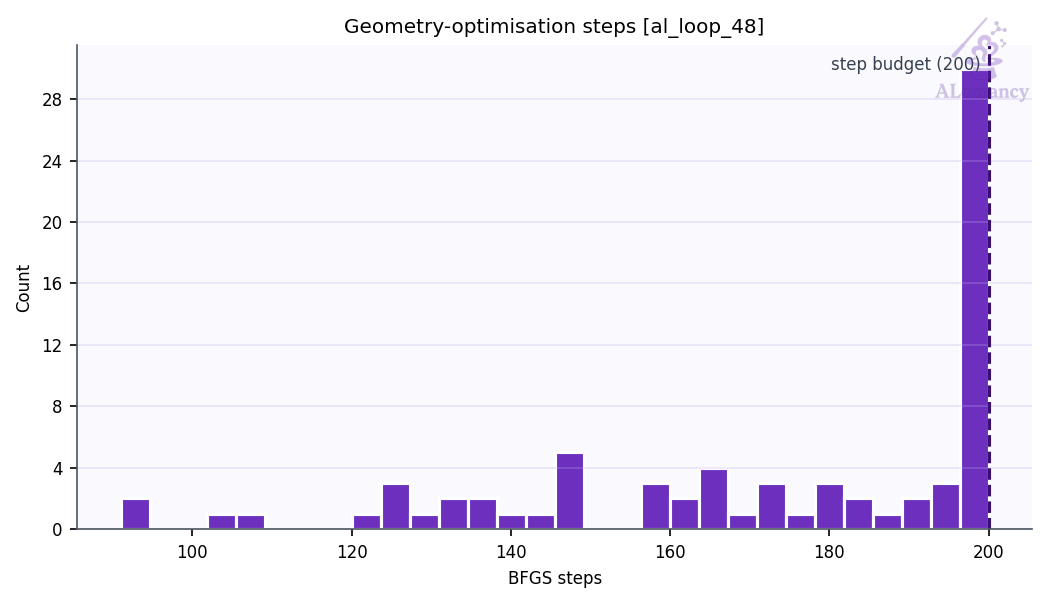
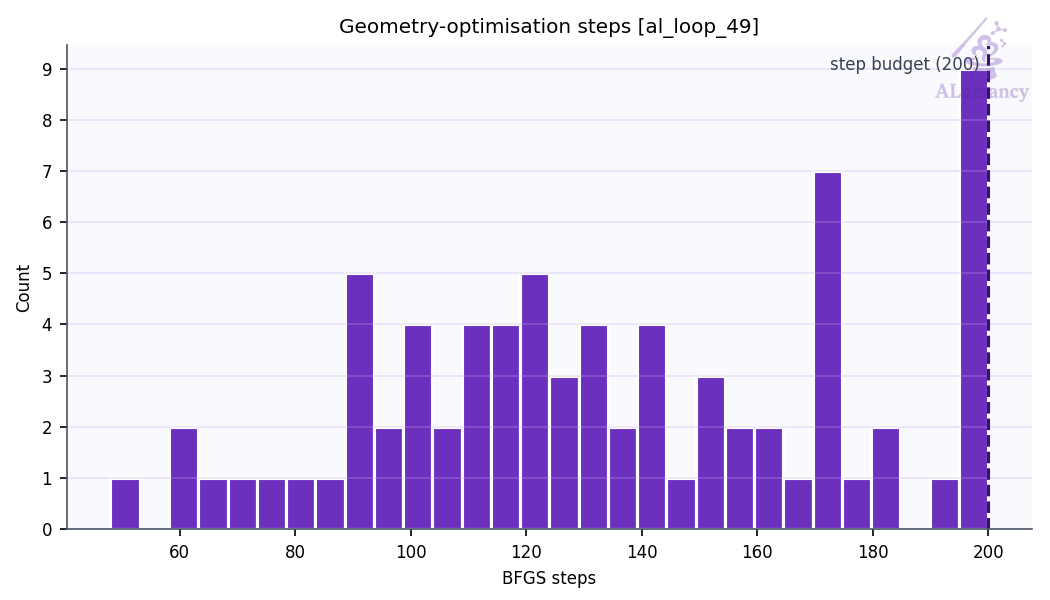
update good_c, yun_an

diff --git a/alomancy/yun_an/report/report.md b/alomancy/yun_an/report/report.md
@@ -1,30 +1,28 @@
-# ALomancy report: al_loop_48
+# ALomancy report: al_loop_49
 
-Workflow `committee_uncertainty` · trainer `mace` · generator `md` · evaluator `qe` · generated 2026-11-04T02:29:22
+Workflow `committee_uncertainty` · trainer `mace` · generator `md` · evaluator `qe` · generated 2026-11-06T10:08:30
 
-**Status:** ✖ 2 errors · ⚠ 2 warnings · 💡 2 infos · 39 warning(s) logged
+**Status:** ✖ 2 errors · ⚠ 2 warnings · 31 warning(s) logged
 
 ## Headline
 
-| | loop 47 | loop 48 | change |
+| | loop 48 | loop 49 | change |
 |---|---:|---:|---:|
-| Best model test force MAE (eV/Å) | 0.373 | 0.418 | +12% |
-| Best model test energy MAE (meV/atom) | 164 | 160 | -3% |
-| Training structures | 2.08e+03 | 2.15e+03 | +3% |
-| Test structures | 112 | 120 | +7% |
-| New structures this loop | 30 | 75 | +150% |
-| Warnings / errors logged | 27 | 39 | +44% |
+| Best model test force MAE (eV/Å) | 0.418 | 0.247 | -41% |
+| Best model test energy MAE (meV/atom) | 160 | 139 | -13% |
+| Training structures | 2.15e+03 | 2.23e+03 | +4% |
+| Test structures | 120 | 130 | +8% |
+| New structures this loop | 75 | 76 | +1% |
+| Warnings / errors logged | 39 | 31 | -21% |
 
 Best model: fit_3 of 5 (chosen on the `valid` split).
 
 ## Issues & suggestions
 
-- ✖ **remote_jobs_failed**: 36/131 remote jobs (27%) failed (17) or died (19). Check the job logs (results/alomancy.log has each failure's traceback); jobs killed by the scheduler usually need a longer max_time for that phase, or a partition with more memory.
-- ✖ **dft_partial_failure**: 25/100 structures sent to DFT (25%) came back without a result. Check the DFT output in results/<loop>/high_accuracy_evaluation; raise high_accuracy_evaluation.max_time / max_go_time if jobs timed out.
-- ⚠ **go_not_converged**: 29/75 geometry optimisations (39%) stopped at the step budget (200 steps) before reaching the force ceiling. Raise high_accuracy_evaluation.max_num_of_relax_steps, or raise high_accuracy_evaluation.force_ceiling (now 0.05 eV/Å) so they stop earlier. Non-converged structures are still kept as training data.
-- ⚠ **short_bond_excluded**: 1706/2552 structures (67%) were dropped for a bond shorter than 0.5 Å. The model is driving MD into collisions: lower md_kwargs.temperature or md_kwargs.timestep_fs, or add more short-range initialization data (dimers/trimers).
-- 💡 **go_steps_near_budget**: Geometry optimisations used 173 of 200 allowed steps on average (87%). Consider raising high_accuracy_evaluation.max_num_of_relax_steps before they start hitting the limit.
-- 💡 **overfitting**: The best model's test force MAE (0.418 eV/Å) is 2.3x its training MAE (0.179 eV/Å). The test set covers configurations training doesn't: keep adding data, or raise general.dataset_kwargs.valid_fraction to select models on held-out data.
+- ✖ **remote_jobs_failed**: 26/136 remote jobs (19%) failed (21) or died (5). Check the job logs (results/alomancy.log has each failure's traceback); jobs killed by the scheduler usually need a longer max_time for that phase, or a partition with more memory.
+- ✖ **dft_partial_failure**: 24/100 structures sent to DFT (24%) came back without a result. Check the DFT output in results/<loop>/high_accuracy_evaluation; raise high_accuracy_evaluation.max_time / max_go_time if jobs timed out.
+- ⚠ **short_bond_excluded**: 4045/5107 structures (79%) were dropped for a bond shorter than 0.5 Å. The model is driving MD into collisions: lower md_kwargs.temperature or md_kwargs.timestep_fs, or add more short-range initialization data (dimers/trimers).
+- ⚠ **few_candidates_generated**: Structure generation produced only 137 usable candidates, less than twice the 100 structures added per loop, so the selector had little to choose from. Raise structure_generation.num_of_structures_to_generate (and md_kwargs.steps or structure_selection_kwargs.num_of_md_starts if MD runs end early).
 
 ## Trends
 
@@ -43,6 +41,7 @@ Best model: fit_3 of 5 (chosen on the `valid` split).
 | 46 | 0.353 | 2055 | 54 | 54/100 | 39% | 0 | 50 |
 | 47 | 0.373 | 2085 | 30 | 30/45 | 73% | 0 | 27 |
 | 48 | 0.418 | 2152 | 75 | 75/100 | 61% | 0 | 39 |
+| 49 | 0.247 | 2232 | 76 | 76/100 | 92% | 0 | 31 |
 
 ![Best-model MAE per loop](plots/training_al_loop_mae_plot.png)
 
@@ -52,7 +51,7 @@ Best model: fit_3 of 5 (chosen on the `valid` split).
 
 ![Best model parity](plots/best_model_parity.png)
 
-Median relative error: train energy 3.2%, force 22.1%; test energy 2.3%, force 183.4%.
+Median relative error: train energy 3.6%, force 18.7%; test energy 2.3%, force 148.1%.
 Energies with |formation energy| < 0.05 eV/atom and atoms with |F| < 0.1 eV/Å are left out; force error is |ΔF|/|F| per atom.
 
 ![Best model percentage error](plots/best_model_percent_error.png)
@@ -62,17 +61,17 @@ Energies with |formation energy| < 0.05 eV/atom and atoms with |F| < 0.1 eV/Å a
 | config_type | Train | Test | Excluded: redundant | Excluded: quality filter | total |
 |---|---:|---:|---:|---:|---:|
 | IsolatedAtom | 5 | 0 | 0 | 0 | 5 |
-| high_sd | 751 | 104 | 28 | 529 | 1412 |
+| high_sd | 831 | 114 | 28 | 591 | 1564 |
 | init_MP | 69 | 4 | 0 | 0 | 73 |
 | init_amorphous | 67 | 12 | 8 | 0 | 87 |
 | init_dimer | 299 | 0 | 0 | 0 | 299 |
 | init_stretch_compress | 390 | 0 | 0 | 398 | 788 |
 | init_trimer | 571 | 0 | 0 | 0 | 571 |
-| **all** | **2152** | **120** | **36** | **927** | **3235** |
+| **all** | **2232** | **130** | **36** | **989** | **3387** |
 
-- Redundancy removal: 36 structure(s) flagged in total, 0 of this loop's 75 new.
-- DFT geometry-optimisation starting frames: 75 stored this loop, 0 used (the rest excluded by the train/test filters or redundancy removal).
-- Quality filters: high_force: 925, formation_energy: 310.
+- Redundancy removal: 36 structure(s) flagged in total, 0 of this loop's 76 new.
+- DFT geometry-optimisation starting frames: 76 stored this loop, 14 used (the rest excluded by the train/test filters or redundancy removal).
+- Quality filters: high_force: 987, formation_energy: 324.
 
 ![Training set composition](plots/training_set_composition.png)
 
@@ -80,16 +79,17 @@ Energies with |formation energy| < 0.05 eV/atom and atoms with |F| < 0.1 eV/Å a
 
 Redundancy removal flags near-duplicate training structures, so the model isn't trained on many copies of the same geometry. Each structure is described by `char_vec_128`: all of its interatomic distances, sorted and resampled to 128 values (`global_descriptor/atomic_distance_descriptor.make_char_vec`). Two structures count as duplicates when the Euclidean distance between their descriptors is below a tolerance: in database order, each structure still in the training set is kept unless it is within the tolerance of one already kept. The plot sweeps that tolerance and counts how many structures are kept at each value. **We are looking for plateaus** (shaded): ranges where the count doesn't change, so the result doesn't depend on the exact tolerance. The orange line (right axis) is the number of structures removed between consecutive tolerance steps, the gradient of the count: zero on a plateau. The start of the lowest plateau at least `general.redundancy_kwargs.min_plateau_width` of the swept range wide is used (dashed line). Nothing is flagged when no plateau qualifies, or when it would flag more than `max_flagged_fraction` of the structures; `general.redundancy_kwargs.tolerance` sets the tolerance directly.
 
-- This loop: 923 structures probed, tolerance 0.0398, 36 flagged as duplicates (8 plateau(s) found).
+- This loop: 1,003 structures probed, tolerance 0.0398, 36 flagged as duplicates (8 plateau(s) found).
 
 ![Redundancy tolerance probe](plots/redundancy_tolerance_probe.png)
 
 ## DFT
 
-- Structures: 75 returned of 100 submitted (75 relaxed, 0 single point).
-- Geometry optimisation: 46/75 reached the force ceiling (0.05 eV/Å); steps mean 173.1, median 185, max 200 of 200 allowed.
-- Average DFT time per relaxation: 438.4 min (median 455.4, max 596.4; 75 structures).
-- Largest per-atom force after DFT: median 0.05, max 0.44 eV/Å.
+- Structures: 76 returned of 100 submitted (76 relaxed, 0 single point).
+- Geometry optimisation: 70/76 reached the force ceiling (0.05 eV/Å); steps mean 134.5, median 130, max 200 of 200 allowed.
+- Average DFT time per relaxation: 302.9 min (median 282.9, max 574.2; 76 structures).
+- Largest per-atom force after DFT: median 0.05, max 0.34 eV/Å.
+- DFT phase wall-clock: 42.3 h (mean queue time 336 min).
 
 **Structures evaluated with DFT this loop (final geometries)**
 
@@ -97,14 +97,14 @@ Redundancy removal flags near-duplicate training structures, so the model isn't 
 
 ## MLIP training: mace
 
-- Best fit (fit_3) trained for 199 epochs, stage two from epoch 160; weights kept from epoch 167.
+- Best fit (fit_3) trained for 199 epochs, stage two from epoch 160; weights kept from epoch 160.
 
 ![Best model training curve](plots/best_model_training_curve.png)
 
 ## Structure generation: MD
 
-- Runs: 25 (25 completed, 0 seed(s) replaced)
-- Frames: 2848 recorded, 846 physical (no bond < 0.5 Å, volume ≤ 3 x the seed's; 271 frame(s) cut after a run expanded past it, seed frames left out), 500 picked as candidates, spread over each run
+- Runs: 25 (25 completed, 1 seed(s) replaced)
+- Frames: 4875 recorded, 925 physical (no bond < 0.5 Å, volume ≤ 3 x the seed's; 243 frame(s) cut after a run expanded past it, seed frames left out), 500 picked as candidates, spread over each run
 - Ensemble npt, T = 300 K, timestep 0.3 fs
 
 ![MD frames per run](plots/md_frames_per_run.png)
@@ -119,7 +119,7 @@ Redundancy removal flags near-duplicate training structures, so the model isn't 
 
 ## Selection: committee uncertainty
 
-- 500 candidates scored; 100 selected (20 %; max force std dev ≥ 2.05 eV/Å).
+- 137 candidates scored; 100 selected (73 %; max force std dev ≥ 0.216 eV/Å).
 
 ![Committee force std dev](plots/committee_force_std_dev.png)
 
@@ -128,12 +128,13 @@ Redundancy removal flags near-duplicate training structures, so the model isn't 
 | event | meaning | count |
 |---|---|---:|
 | `dft_summary` | DFT batch summary | 1 |
-| `job_died` | remote job died (killed / lost) | 19 |
-| `job_failed` | remote job failed | 17 |
-| `jobs_started` | remote jobs started | 4 |
+| `few_candidates_generated` | fewer than 2x per-loop candidates generated | 1 |
+| `job_died` | remote job died (killed / lost) | 5 |
+| `job_failed` | remote job failed | 21 |
+| `jobs_started` | remote jobs started | 5 |
 | `md_summary` | MD summary | 1 |
 | `md_volume_expanded` | MD runs cut after expanding past max_volume_ratio | 1 |
-| `mlip_relax_fallback` | MLIP relaxation job failed (candidates unrelaxed) | 1 |
+| `mlip_relax_dropped` | candidates dropped by MLIP relaxation | 1 |
 | `quality_filtered` | train/test quality filter passes | 2 |
 | `redundancy_flagged` | redundancy removal passes | 1 |
-| `short_bond_excluded` | structures dropped for a short bond | 1 |
+| `short_bond_excluded` | structures dropped for a short bond | 2 |

diff --git a/alomancy/good_c/report/report.md b/alomancy/good_c/report/report.md
@@ -1,25 +1,25 @@
-# ALomancy report: al_loop_1
+# ALomancy report: al_loop_2
 
-Workflow `committee_uncertainty` · trainer `mace` · generator `md` · evaluator `qe` · generated 2026-11-04T14:19:20
+Workflow `committee_uncertainty` · trainer `mace` · generator `md` · evaluator `qe` · generated 2026-11-06T10:08:49
 
-**Status:** 💡 1 info · 8 warning(s) logged
+**Status:** 💡 1 info · 4 warning(s) logged
 
 ## Headline
 
-| | loop 0 | loop 1 | change |
+| | loop 1 | loop 2 | change |
 |---|---:|---:|---:|
-| Best model test force MAE (eV/Å) | 0.23 | 0.219 | -5% |
-| Best model test energy MAE (meV/atom) | 24.3 | 31.5 | +30% |
-| Training structures | 3.96e+03 | 4.19e+03 | +6% |
-| Test structures | 408 | 431 | +6% |
-| New structures this loop | 115 | 292 | +154% |
-| Warnings / errors logged | 1 | 8 | +700% |
+| Best model test force MAE (eV/Å) | 0.219 | 0.206 | -6% |
+| Best model test energy MAE (meV/atom) | 31.5 | 18.1 | -43% |
+| Training structures | 4.19e+03 | 4.45e+03 | +6% |
+| Test structures | 431 | 460 | +7% |
+| New structures this loop | 292 | 298 | +2% |
+| Warnings / errors logged | 8 | 4 | -50% |
 
 Best model: fit_2 of 3 (chosen on the `valid` split).
 
 ## Issues & suggestions
 
-- 💡 **overfitting**: The best model's test force MAE (0.219 eV/Å) is 2.8x its training MAE (0.0787 eV/Å). The test set covers configurations training doesn't: keep adding data, or raise general.dataset_kwargs.valid_fraction to select models on held-out data.
+- 💡 **overfitting**: The best model's test force MAE (0.206 eV/Å) is 2.2x its training MAE (0.0926 eV/Å). The test set covers configurations training doesn't: keep adding data, or raise general.dataset_kwargs.valid_fraction to select models on held-out data.
 
 ## Trends
 
@@ -27,6 +27,7 @@ Best model: fit_2 of 3 (chosen on the `valid` split).
 |---:|---:|---:|---:|---:|---:|---:|---:|
 | 0 | 0.23 | 3958 | 115 | 100/100 | 100% | 0 | 1 |
 | 1 | 0.219 | 4186 | 292 | 96/100 | 99% | 0 | 8 |
+| 2 | 0.206 | 4449 | 298 | 99/100 | 98% | 0 | 4 |
 
 ![Best-model MAE per loop](plots/training_al_loop_mae_plot.png)
 
@@ -42,7 +43,7 @@ No predictions stored for this loop's best model.
 |---|---:|---:|---:|---:|
 | CNa_dataset | 3538 | 392 | 662 | 4592 |
 | IsolatedAtom | 1 | 0 | 0 | 1 |
-| high_sd | 328 | 35 | 44 | 407 |
+| high_sd | 591 | 64 | 50 | 705 |
 | init_MP | 7 | 1 | 0 | 8 |
 | init_amorphous | 26 | 3 | 0 | 29 |
 | init_dimer | 99 | 0 | 0 | 99 |
@@ -51,10 +52,10 @@ No predictions stored for this loop's best model.
 | init_trimer | 50 | 0 | 0 | 50 |
 | on_hull | 1 | 0 | 0 | 1 |
 | on_hull_expansion | 11 | 0 | 9 | 20 |
-| **all** | **4186** | **431** | **1132** | **5749** |
+| **all** | **4449** | **460** | **1138** | **6047** |
 
-- Redundancy removal: 0 structure(s) flagged in total, 0 of this loop's 292 new.
-- Quality filters: high_force: 1123, formation_energy: 21.
+- Redundancy removal: 0 structure(s) flagged in total, 0 of this loop's 298 new.
+- Quality filters: high_force: 1129, formation_energy: 21.
 
 ![Training set composition](plots/training_set_composition.png)
 
@@ -62,28 +63,28 @@ No predictions stored for this loop's best model.
 
 Redundancy removal flags near-duplicate training structures, so the model isn't trained on many copies of the same geometry. Each structure is described by `char_vec_128`: all of its interatomic distances, sorted and resampled to 128 values (`global_descriptor/atomic_distance_descriptor.make_char_vec`). Two structures count as duplicates when the Euclidean distance between their descriptors is below a tolerance: in database order, each structure still in the training set is kept unless it is within the tolerance of one already kept. The plot sweeps that tolerance and counts how many structures are kept at each value. **We are looking for plateaus** (shaded): ranges where the count doesn't change, so the result doesn't depend on the exact tolerance. The orange line (right axis) is the number of structures removed between consecutive tolerance steps, the gradient of the count: zero on a plateau. The start of the lowest plateau at least `general.redundancy_kwargs.min_plateau_width` of the swept range wide is used (dashed line). Nothing is flagged when no plateau qualifies, or when it would flag more than `max_flagged_fraction` of the structures; `general.redundancy_kwargs.tolerance` sets the tolerance directly.
 
-- This loop: 4,153 structures probed; the lowest plateau would flag more than 50% of them, so nothing was flagged.
+- This loop: 4,326 structures probed; the lowest plateau would flag more than 50% of them, so nothing was flagged.
 
 ![Redundancy tolerance probe](plots/redundancy_tolerance_probe.png)
 
 ## DFT
 
-- Structures: 96 returned of 100 submitted (96 relaxed, 0 single point).
-- Geometry optimisation: 95/96 reached the force ceiling (0.05 eV/Å); steps mean 29.5, median 24, max 200 of 200 allowed.
-- Average DFT time per relaxation: 123.9 min (median 62.2, max 869.9; 96 structures).
-- Largest per-atom force after DFT: median 0.05, max 0.07 eV/Å.
-- DFT phase wall-clock: 19.5 h (mean queue time 230 min).
+- Structures: 99 returned of 100 submitted (99 relaxed, 0 single point).
+- Geometry optimisation: 97/99 reached the force ceiling (0.05 eV/Å); steps mean 29.1, median 21, max 200 of 200 allowed.
+- Average DFT time per relaxation: 85.8 min (median 34.8, max 616.1; 99 structures).
+- Largest per-atom force after DFT: median 0.04, max 0.26 eV/Å.
+- DFT phase wall-clock: 34.9 h (mean queue time 240 min).
 
 ## MLIP training: mace
 
-- Best fit (fit_2) trained for 299 epochs, stage two from epoch 240; weights kept from epoch 256.
+- Best fit (fit_2) trained for 299 epochs, stage two from epoch 240; weights kept from epoch 249.
 
 ![Best model training curve](plots/best_model_training_curve.png)
 
 ## Structure generation: MD
 
 - Runs: 50 (50 completed, 0 seed(s) replaced)
-- Candidate frames: 1000 (per completed run: median 200, min 5)
+- Candidate frames: 1000 (per completed run: median 200, min 200)
 - Ensemble npt, T = 300 K, timestep 0.3 fs
 
 ![MD frames per run](plots/md_frames_per_run.png)
@@ -98,7 +99,7 @@ Redundancy removal flags near-duplicate training structures, so the model isn't 
 
 ## Selection: committee uncertainty
 
-- 832 candidates scored; 100 selected (max force std dev ≥ 0.34 eV/Å).
+- 829 candidates scored; 100 selected (max force std dev ≥ 0.27 eV/Å).
 
 ![Committee force std dev](plots/committee_force_std_dev.png)
 
@@ -107,9 +108,8 @@ Redundancy removal flags near-duplicate training structures, so the model isn't 
 | event | meaning | count |
 |---|---|---:|
 | `blown_up_excluded` |  | 1 |
-| `database_recovered` | database restored after being replaced on disk | 1 |
 | `dft_summary` | DFT batch summary | 1 |
-| `job_failed` | remote job failed | 4 |
+| `job_failed` | remote job failed | 1 |
 | `jobs_started` | remote jobs started | 4 |
 | `md_summary` | MD summary | 1 |
 | `md_volume_expanded` |  | 1 |
